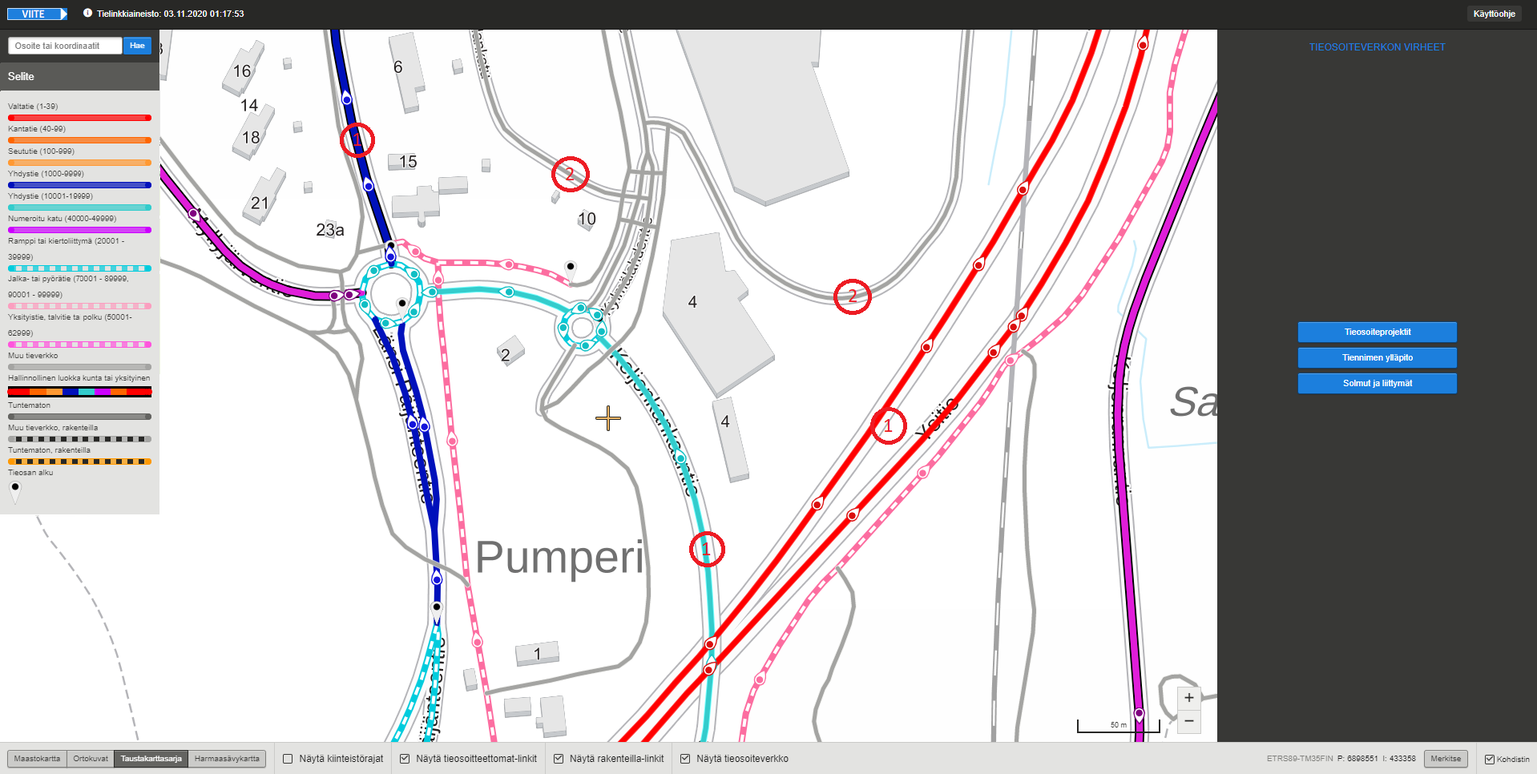
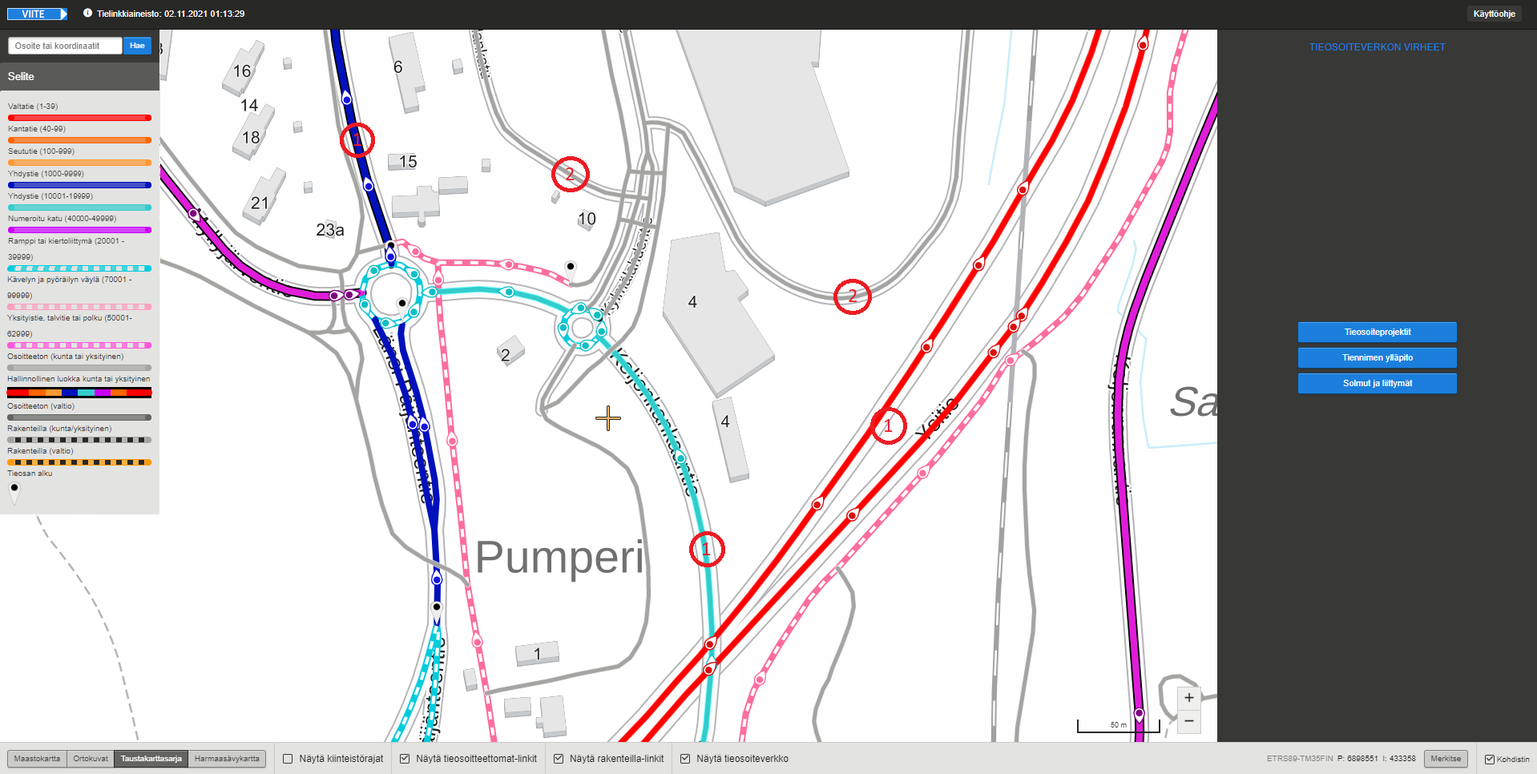
VIITE-2621 User manual update, chapters (0)-5 (#1160)
* VIITE-2621 User manual update, chapters (0)-5

Changed region(s): [[0.0, 0.3416, 0.0923, 0.6211], [0.123, 0.0, 0.1538, 0.0311]]

diff --git a/viite-UI/manual/index.md b/viite-UI/manual/index.md
@@ -3,28 +3,29 @@ Viite-sovelluksen käyttöohje
 Viite
 -----------------------
 
-Viite on Väylän tieosoitejärjestelmän ylläpitosovellus. Viitteellä hallitaan tieosoitejärjestelmän muutoksia ja se tarjoaa ajantasaisen kuvauksen tiestöstä Digiroadin (VVH:n) ajantasaisella linkkigeometrialla.
+Viite on Väylän tieosoitejärjestelmän ylläpitosovellus. Viitteellä hallitaan tieosoitejärjestelmän muutoksia ja se tarjoaa ajantasaisen kuvauksen tiestöstä <!--Digiroadin (VVH:n) ajantasaisella--> VVH:n jäädytetyllä linkkigeometrialla.
 
-Linkistä https://testiextranet.vayla.fi/extranet/web/fi/viite?kategoria=7457637 (testi) pääsee Väylän extranetin Viite-sivulle (tällä hetkellä testiextranet käytössä, varsinainen extranet-osoite päivitetään myöhemmin), jossa kerrotaan Viitteen yleiskuvaus ja annetaan tiedotteita käyttäjille. Sivulla ylläpidetään myös dokumentaatiota Viitteestä. 
+Linkin https://extranet.vayla.fi/group/extranet/etusivu alta Väylän extranetista löytyy Viite, Viite-sovelluksen yleiskuvaus, linkki tähän ohjeeseen ja tieto järjestelmäpäälliköstä. 
 
-__Huom! Suosittelemme käyttämään selaimena Firefoxia tai Chromea.__
+__Huom! Suosittelemme käyttämään selaimena Chromea tai Firefoxia.__
 
 __Huom! Käyttöohjeen kuvia voi klikata isommaksi, jolloin tekstit erottuvat paremmin.__
 
-# 1. Miten päästä alkuun
+1 Miten päästä alkuun
 -----------------------
 
 Viite-sovelluksen käyttöä varten tarvitaan Väylän tunnukset (A-, U-, LX-, K- tai L-alkuinen). Mikäli sinulla ei ole Väylän tunnuksia, pyydä ne yhteyshenkilöltäsi Väylästä.
 
-Kaikilla Väylän tunnuksilla on pääsy Viite-sovellukseen katselukäyttäjänä.
+Kaikilla Väylän tunnuksilla on pääsy Viite-sovellukseen katselukäyttäjänä.   
+Tietojen muokkausoikeuksista päättää Viitteen järjestelmäpäällikkö.
 
-Viite-sovellukseen kirjaudutaan osoitteessa: <a href="https://extranet.vayla.fi/viite/" target="_blank">https://extranet.vayla.fi/viite/</a>.
+Viite-sovellukseen kirjaudutaan osoitteessa: <a href="https://viite.vaylapilvi.fi" target="_blank"> https://viite.vaylapilvi.fi </a>.
 
-![Kirjautuminen Viite-sovellukseen.](k1.jpg)
+![Kirjautuminen Viite-sovellukseen Väylän tunnuksella.](k1.jpg)
 
-_Kuva 1.1: Kirjautuminen Viite-sovellukseen._
+_Kuva 1.1: Kirjautuminen Viite-sovellukseen Väylän tunnuksella._
 
-Kirjautumisen jälkeen avautuu karttakäyttöliittymässä katselutila.
+Kirjautumisen jälkeen avautuu Viitteen karttakäyttöliittymä katselutilassa. Muokkausoikeudellisen käyttäjän karttakäyttöliittymän zoomitaso ja kartan keskityskohta voivat olla erilaiset kuin katselukäyttäjän näkymässä.
 
 ![Näkymä kirjautumisen jälkeen.](k2.jpg)
 
@@ -33,9 +34,9 @@ _Kuva 1.2: Karttanäkymä kirjautumisen jälkeen._
 Oikeudet on rajattu käyttäjän roolin mukaan:
 
 - Ilman erikseen annettuja oikeuksia Väylän tunnuksilla pääsee katselemaan kaikkia tieosoitteita
-- Tieosoiteprojektit, Tiennimen ylläpito sekä Solmut ja liittymät -painikkeet näkyvät vain käyttäjille, joilla on oikeudet muokata tieosoitteita
+- <!--Tieosoiteprojektit, Tiennimen ylläpito sekä Solmut ja liittymät -painikkeet näkyvät vain käyttäjille,--> Tieosoitetietojen muutokset onnistuvat vain muokkausoikeuksilla.
 
-Jos kirjautumisen jälkeen ei avaudu karttakäyttöliittymän katselutilaa, ei kyseisellä tunnuksella ole pääsyä Väylän extranettiin. Tällöin tulee ottaa yhteyttä Väylässä tai ELYssä omaan yhteyshenkilöön.
+Jos kirjautumisen jälkeen karttakäyttöliittymän katselutila ei avaudu, ei kyseisellä tunnuksella ole pääsyä Väylän extranetiin. Tällöin tulee ottaa yhteyttä Väylässä tai ELYssä omaan yhteyshenkilöön.
 
 1.1 Mistä saada opastusta
 --------------------------
@@ -47,18 +48,20 @@ Viite-sovelluksen käytössä avustaa sovellustoimittaja, <viite.kehitys@vayla.f
 Sovelluksen toimiessa virheellisesti (esim. kaikki aineistot eivät lataudu oikein), menettele seuraavasti:
 
 - Lataa sivu uudelleen näppäimistön F5-painikkeella
-- Tarkista, että selaimestasi on käytössä ajan tasalla oleva versio ja selaimesi on Mozilla Firefox tai Chrome
-- Jos edellä olevat eivät korjaa ongelmaa, ota yhteyttä <viite.kehitys@vayla.fi>
+- Tarkista, että selaimestasi on käytössä ajan tasalla oleva versio, ja selaimesi on Chrome tai Mozilla Firefox 
+- Jos edellä olevat eivät korjaa ongelmaa, ota yhteyttä <viite.kehitys@vayla.fi>.
 
-Tämä ohje käsittelee pääasiassa vain Viite-sovelluksen käyttöä, ei niinkään tieosoitejärjestelmää. Tarkemmat tiedot tieosoitejärjestelmästä löydät täältä: https://vayla.fi/documents/20473/143621/tieosoitejärjestelmä.pdf.
+Tämä ohje käsittelee pääasiassa vain Viite-sovelluksen käyttöä, ei niinkään tieosoitejärjestelmää.
+Tarkemmat tiedot tieosoitejärjestelmästä löydät täältä: https://vayla.fi/documents/25230764/35411009/tieosoitejärjestelmä.pdf
 
-# 2. Perustietoja Viite-sovelluksesta
+2 Perustietoja Viite-sovelluksesta
 --------------------------
 
 2.1 Tiedon rakentuminen Viite-sovelluksessa
 --------------------------
 
-Viite-sovelluksessa tieosoiteverkko piirretään VVH:n tarjoaman Maanmittauslaitoksen keskilinja-aineiston päälle. Maanmittauslaitoksen keskilinja-aineisto muodostuu tielinkeistä. Tielinkki on tien, kadun, kevyen liikenteen väylän tai lauttayhteyden keskilinjageometrian pienin yksikkö. Tieosoiteverkko piirtyy geometrian päälle tieosoitesegmentteinä _lineaarisen referoinnin_ avulla. 
+Viite-sovelluksessa tieosoiteverkko piirretään VVH:n tarjoaman Maanmittauslaitoksen keskilinja-aineiston päälle. 
+Viite käyttää keskilinja-aineistosta ns. jäädytettyä versiota, joka päivitetään noin puolivuosittain. Maanmittauslaitoksen keskilinja-aineisto muodostuu tielinkeistä. Tielinkki on tien, kadun, kevyen liikenteen väylän tai lauttayhteyden keskilinjageometrian pienin yksikkö. Tieosoiteverkko piirtyy geometrian päälle tieosoitesegmentteinä _lineaarisen referoinnin_ avulla. 
 
 Tielinkki on Viite-sovelluksen lineaarinen viitekehys, jonka geometriaan sidotaan tieosoitesegmentit. Kukin tieosoitesegmentti tietää, mille tielinkille se kuuluu (tielinkin ID), sekä kohdan, josta se alkaa ja loppuu kyseisellä tielinkillä. Tieosoitesegmentit ovat siten tielinkin mittaisia tai niitä lyhyempiä tieosoitteen osuuksia. Käyttöliittymässä kuitenkin pienin valittavissa oleva osuus on tielinkin mittainen (ks. luvut 5.1 ja 7.1).
 
@@ -68,11 +71,14 @@ Kullakin tieosoitesegmentillä on lisäksi tiettyjä sille annettuja ominaisuust
 
 _Kuva 2.1: Tieosoitesegmenttejä (1) ja muita tielinkkejä (2) Viitteen karttaikkunassa._
 
-Tieosoitesegmentit piirretään Viite-sovelluksessa kartalle erilaisin värein (ks. luku 5). Muut tielinkit, jotka eivät kuulu tieosoiteverkkoon, piirretään kartalle harmaalla. Näitä ovat esimerkiksi tieosoitteettomat kuntien omistamat tiet, ajopolut tai ajotiet.
+Tieosoitesegmentit (eli tieosoitteistetut tielinkit, 1) piirretään Viite-sovelluksessa kartalle erilaisin värein (ks. luku 5). 
+Muut, tieosoiteverkkoon kuulumattomat tielinkit (2), piirretään kartalle harmaalla värillä tai mustaraitaisena katkoviivana. 
+Harmaalla piirretään esimerkiksi (tieosoitteettomat) kuntien omistamat tiet, ajopolut tai ajotiet. 
+Mustaraitaisilla katkoviivoilla piirretään rakenteilla olevat, mutta toistaiseksi tieosoitteistamattomat tiet, jotka ovat tulossa tieosoitteistettaviksi valmistumisensa aikoihin.
 
 Palautteet geometrian/tielinkkien virheistä voi laittaa Maanmittauslaitokselle, <maasto@maanmittauslaitos.fi>. Mukaan liitetään selvitys virheestä ja sen sijainnista (esim. kuvakaappaus).
 
-# 3. Automatiikka Viite-sovelluksessa
+3 Automatiikka Viite-sovelluksessa
 --------------------------
 Viite-sovelluksessa on muutamia automatiikan tekemiä yleistyksiä tai korjauksia. Automatiikka ei muuta mitään sellaisia tietoja, jotka muuttaisivat varsinaisesti tieosoitteita. Automatiikan tekemät muutokset liittyvät siihen, että tieosoiteverkkoa ylläpidetään keskilinjageometrian päällä, ja tuon keskilinjageometrian ylläpidosta vastaa Maanmittauslaitos. Tietyt automaattiset toimenpiteet helpottavat tieosoiteverkon ylläpitäjää varsinaisessa tieosoiteverkon hallinnassa.
 
@@ -81,13 +87,14 @@ __Huom! Automatiikka ei koskaan muuta tieosan mitattua pituutta. Arvot tieosien 
 3.1 Tieosoitesegmenttien yhdistely tielinkin mittaisiksi osuuksiksi
 --------------------------
 
-Kun käyttäjä valitsee kartalla kohteita kaksoisklikkaamalla (ks. luku 5.1), on pienin valittava yksikkö tielinkin mittainen osuus tieosoiteverkosta, koska tielinkki on pienin mahdollinen yksikkö Maanmittauslaitoksen ylläpitämällä linkkiverkolla.
+Käyttäjän valitessa kartalla kohteita kaksoisklikkaamalla (ks. luku 5.1), on pienin valittava yksikkö tielinkin mittainen osuus tieosoiteverkosta, koska tielinkki on pienin mahdollinen yksikkö Maanmittauslaitoksen ylläpitämällä linkkiverkolla.
 
 Tätä varten järjestelmä tekee automaattista yhdistelyä:
 
 - Ne kohteet, joiden tielinkin ID, tie, tieosa, ajorata ja alkupäivämäärä ovat samoja (yhtenevä tieosoitehistoria), on yhdistetty tietokannassa yhdeksi tielinkin mittaiseksi tieosoitesegmentiksi
 - Ne kohteet, joiden tielinkin ID, tie, tieosa, ajorata ovat samoja, mutta alkupäivämäärä ei ole sama (erilainen tieosoitehistoria), ovat tietokannassa edelleen erillisiä kohteita, mutta käyttöliittymässä ne ovat valittavissa vain tielinkin mittaisena osuutena. Tällä varmistetaan, että käyttöliittymä toimii käyttäjän kannalta loogisesti.  Tielinkin mittainen osuus on aina valittavissa, mutta tieosoitehistoria säilytetään tietokantatasolla.
 
+<!-- Kappale 3.2 kommentoitu pois; Viitteessä käytössä nyt puolivuosittain jäädytettävä rajapinta, ei jatkuvasti päivittyvää geometriaa.
 3.2 Tieosoitesegmenttien automaattinen korjaus jatkuvasti päivittyvällä linkkigeometrialla
 --------------------------
 
@@ -97,8 +104,9 @@ Automatiikka tekee korjaukset, kun
 
 1. __Tielinkki pitenee tai lyhenee alle metrin:__ Viite-sovellus lyhentää/pidentää tieosoitesegmenttiä automaattisesti muutoksen verran.
 2. __Maanmittauslaitos yhdistelee tielinkkejä, esimerkiksi poistamalla tonttiliittymiä maanteiden varsilta:__ Tieosoitesegmentit siirretään uudelle geometrialle automaattisesti Väyläverkon hallinnan (VVH) tarjoaman tielinkkien muutosrajapinnan avulla.
+-->
 
-# 4. Karttanäkymän toiminnot
+4 Karttanäkymän toiminnot
 --------------------------
 
 ![Karttanäkymän muokkaus](k3.jpg)
@@ -107,46 +115,48 @@ _Kuva 4.1: Karttanäkymä._
 
 #### Kartan liikuttaminen
 
-Karttaa liikutetaan raahaamalla pitämällä hiiren vasenta painiketta pohjassa ja liikuttamalla samalla hiirtä.
+Karttaa liikutetaan ns. raahaamalla, eli pitämällä hiiren vasenta painiketta pohjassa ja liikuttamalla samalla hiirtä.
 
 #### Hakukenttä
 
-Käyttöliittymässä on hakukenttä (1), jossa voi hakea koordinaateilla, tieosoitteella, katuosoitteella, MTKID:llä ja Linkin ID:llä. Haku suoritetaan kirjoittamalla hakuehto hakukenttään ja klikkaamalla Hae. Hakutulos tulee listaan hakukentän alle. Hakutuloslistassa ylimpänä on maantieteellisesti kartan nykyistä keskipistettä lähimpänä oleva kohde. Mikäli hakutuloksia on vain yksi, keskittyy kartta automaattisesti haettuun kohteeseen. Jos hakutuloksia on useampi kuin yksi, täytyy listalta valita tulos, johon kartta keskittyy. Tyhjennä tulokset -painike tyhjentää hakutuloslistan.
+Käyttöliittymässä on kartan keskitystä varten hakukenttä (1), jossa voi hakea kohteita koordinaateilla, tieosoitteella, katuosoitteella, MTKID:llä ja Linkin ID:llä. Haku suoritetaan kirjoittamalla hakuehto hakukenttään ja klikkaamalla Hae. Hakutulos tulee listaan hakukentän alle. Hakutuloslistassa ylimpänä on maantieteellisesti kartan nykyistä keskipistettä lähimpänä oleva kohde, tai katuosoitehaun tapauksessa tulokset ovat aakkosjärjestyksessä. Mikäli hakutuloksia on vain yksi, keskittyy kartta automaattisesti haettuun kohteeseen. Jos hakutuloksia on useampi kuin yksi, täytyy listalta valita tulos, johon kartan halutaan keskittyvän. Tyhjennä tulokset -painike tyhjentää hakutuloslistan.
 
-Koordinaateilla haku: Koordinaatit syötetään muodossa "pohjoinen (7 merkkiä), itä (6 merkkiä)". Koordinaatit tulee olla ETRS89-TM35FIN -koordinaattijärjestelmässä, esim. 6975061, 535628.
+Koordinaateilla haku: Koordinaatit syötetään muodossa "pohjoinen (7 merkkiä), itä (6 merkkiä)". Koordinaattien tulee olla ETRS89-TM35FIN -koordinaattijärjestelmässä (esim. 6975061, 535628).
 
 Tieosoitteella haku: Tieosoitteesta hakukenttään voi syöttää joko tienumeron (esim. 2), tienumero + tieosanumeroyhdistelmän (esim. 2 1) tai tienumero + tieosanumero + etäisyys –yhdistelmän (esim. 2 1 350). 
 
-Katuosoitteella haku: Katuosoitteesta hakukenttään voi syöttää koko osoitteen tai sen osan, esim. "Mannerheimintie”, ”Mannerheimintie, Helsinki” tai "Mannerheimintie 10, Helsinki".
+Katuosoitteella haku: Katuosoitteesta hakukenttään voi syöttää koko osoitteen tai sen osan (esim. "Mannerheimintie", "Mannerheimintie, Helsinki", "Mannerheimintie 10, Helsinki", tai myös "Mannerheimintie 10").
 
 Linkin ID:llä haku toimii myös selaimen osoitekentän kautta. Ks. tarkemmin 5.3.
 
 #### Taustakartat
 
-Taustakartaksi (2) voi valita vasemman alakulman painikkeista maastokartan, ortokuvat, taustakarttasarjan tai harmaasävykartan. Käytössä oleva harmaasävykartta ei tällä hetkellä ole kovin käyttökelpoinen.
+Taustakartaksi voi valita vasemman alakulman painikkeista (2) maastokartan, ortokuvat, taustakarttasarjan tai harmaasävykartan. Käytössä oleva harmaasävykartta ei tällä hetkellä ole kovin käyttökelpoinen.
 
 #### Näytettävät tiedot
 
-Käyttäjä voi halutessaan valita, näytetäänkö kartalla kiinteistörajat, tieosoitteettomat linkit, rakenteilla-linkit tai tieosoiteverkko symboleineen (3). Valinnat saa päälle ja päältä pois valintaruutuja klikkaamalla. Muut kuin Näytä kiinteistörajat -valinnat ovat automaattisesti päällä. Tieosoiteverkon symboleita ovat etäisyyslukemasymbolit ja suuntanuolet.
+Käyttäjä voi halutessaan valita, näytetäänkö kartalla kiinteistörajat, tieosoitteettomat linkit, rakenteilla-linkit tai tieosoiteverkko symboleineen (3). Valinnat saa päälle ja päältä pois valintaruutuja klikkaamalla toisistaan riippumatta. Muut kuin Näytä kiinteistörajat -valinnat ovat automaattisesti päällä. 
+Tieosoiteverkon symboleita ovat suuntanuolet ja tieosien päätepisteet (tai yleisemmin kalibrointipisteet).
 
 #### Mittakaavataso ja mittakaava
 
-Käytössä oleva mittakaava näkyy kartan oikeassa alakulmassa (4).Kartan mittakaavatasoa muutetaan joko hiiren rullalla, kaksoisklikkaamalla, Shift+piirto -toiminnolla (alue) tai mittakaavapainikkeista (5). Mittakaavapainikkeita käyttämällä kartan keskitys säilyy. Hiiren rullalla, kaksoisklikkaamalla tai Shift+piirto -toimintoa käyttäen (alue) kartan keskitys siirtyy kohdistimen keskikohtaan.
+Käytössä oleva mittakaava näkyy kartan oikeassa alakulmassa (4). Kartan mittakaavatasoa muutetaan joko hiiren rullalla, kaksoisklikkaamalla (zoom in), Shift+piirto -toiminnolla (alue) tai mittakaavapainikkeista (5). Mittakaavapainikkeita käyttämällä kartan keskitys säilyy. Hiiren rullalla tai kaksoisklikkaamalla kartan keskitys siirtyy hiiren kohdistimen keskikohtaan. Shift+piirto -toimintoa (alue) käyttäen kartta keskittyy valitun alueen keskipisteesen.
 
 #### Kohdistin
 
-Kohdistin (6) kertoo kartan keskipisteen. Kohdistimen koordinaatit näkyvät karttaikkunan oikeassa alakulmassa (7). Kun karttaa liikuttaa, keskipiste muuttuu ja koordinaatit päivittyvät. Oikean alakulman valinnan (9) avulla kohdistimen saa myös halutessaan piilotettua kartalta.
+Kohdistin (6) ilmaisee kartan keskipisteen. Kohdistimen koordinaatit näkyvät karttaikkunan oikeassa alakulmassa (7). Kun karttaa liikuttaa, keskipiste muuttuu ja koordinaatit päivittyvät. Oikean alakulman valinnan (9) avulla kohdistimen saa myös halutessaan piilotettua kartalta.
 
 #### Merkitse piste kartalla
 
 Merkitse-painike (8) merkitsee sinisen pisteen kartan keskipisteeseen. Merkki poistuu vain, kun merkitään uusi piste kartalta.
 
-# 5. Tieosoiteverkon katselu
+5 Tieosoiteverkon katselu
 --------------------------
 
-Geometrialtaan yleistetty tieosoiteverkko tulee näkyviin, kun zoomaa tasolle, jonka mittakaavajanassa on lukema 5 km. Tästä tasosta ja sitä lähempää piirretään kartalle valtatiet, kantatiet, seututiet, yhdystiet ja numeroidut kadut. Yleistämätön tieverkko piirtyy mittakaavajanan lukemalla 2 km. 100 metriä (100 metrin mittakaavajanoja on kaksi kappaletta) suuremmilla mittakaavatasoilla tulevat näkyviin kaikki tieverkon kohteet.
+Geometrialtaan yleistetty tieosoiteverkko (linkit piirretään pelkkien päätepisteiden perusteella) tulee näkyviin, kun zoomaa tasolle, jonka mittakaavajanassa on lukema 5 km. Tästä tasosta ja sitä lähempää piirretään kartalle valtatiet, kantatiet, seututiet, yhdystiet ja numeroidut kadut. Yleistämätön tieverkko piirtyy mittakaavajanan lukemalla 2 km. 100 metriä (100 metrin mittakaavajanoja on kaksi kappaletta) suuremmilla mittakaavatasoilla tulevat näkyviin kaikki tieverkon kohteet. Tieverkon latautuminen karttanäytölle voi kestää jonkin aikaa. 
 
-Tieosoiteverkko on värikoodattu tienumeroiden mukaan. Vasemman yläkulman selitteessä on kerrottu kunkin värikoodin tienumerot. Lisäksi kartalle piirtyvät etäisyyslukemasymbolit, kohdat, joissa vaihtuu tieosa tai ajoratakoodi. Tieverkon kasvusuunta näkyy kartalla pisaran mallisena nuolena.
+Tieosoiteverkko on värikoodattu tienumeroiden mukaan. Vasemman yläkulman selitteessä on kerrottu kutakin värikoodia vastaavat tienumerot. 
+Lisäksi kartalle merkitään tieosien alkupisteet. Tieverkon suunta näkyy kartalla pisaran mallisena nuolena. Nuolen kärki osoittaa tieosoitteen kasvusuuntaan.
 
 Kartalla näkyvä tieosoiteverkko on uusimman tieosoitteen mukainen verkko, jossa näkyvät tieosoitteiden viimeisimmät muutokset. Näiden muutosten alkupäivämäärä voi olla tulevaisuudessa, joten kartalla ei näy ns. tämän päivän tilanne.
 
@@ -158,25 +168,28 @@ _Kuva 5.1: Tieosoiteverkon piirtyminen kartalle, kun mittakaavajanassa on 2 km._
 
 _Kuva 5.2: Tieosoiteverkon piirtyminen kartalle, kun mittakaavajanassa on 100 m._
 
-Tieosoitteelliset kadut ja yksityistiet erottuvat kartalla muista tieosoitesegmenteistä siten, että niiden ympärillä on musta reunaviiva.
+Tieosoitteelliset kadut ja yksityistiet (hallinnollinen luokka kunta tai yksityinen) erottuvat kartalla muista tieosoitesegmenteistä siten, että niiden ympärillä on musta reunaviiva.
 
 ![Tieosoitteellinen katu](k16.jpg)
 
 _Kuva 5.3: Tieosoitteellinen katu, merkattuna mustalla reunaviivalla tienumeron värityksen lisäksi._
 
-Kun hiiren vie tieosoiteverkon päälle, tulee kartalle näkyviin infolaatikko, joka kertoo kyseisen tieosoitesegmentin tienumeron, tieosanumeron, ajoratakoodin sekä alku- ja loppuetäisyyden.
+Kun hiiren kohdistimen vie tieosoitteistetun tieosuuden päälle, tulee kartalle näkyviin infolaatikko, joka kertoo kyseisen tieosoitesegmentin tienumeron, tieosanumeron, ajoratakoodin, alku- ja loppuetäisyyden sekä hallinnollisen luokan.
 
 ![Tieosoitteen hoverointi](k35.jpg)
 
-_Kuva 5.4: Infolaatikko, kun hiiri on viety tieosoitesegmentin päälle._
+_Kuva 5.4: Infolaatikko, kun hiiren kohdistin on viety tieosoitesegmentin päälle._
 
 5.1 Kohteiden valinta
 --------------------------
-Kohteita voi valita kartalta klikkaamalla. Kertaklikkauksella sovellus valitsee kartalla näkyvästä tieosasta osuuden, jolla on sama tienumero, tieosanumero ja ajoratakoodi. Valittu tieosa korostuu kartalla (1), ja sen tiedot tulevat näkyviin karttaikkunan oikean reunan ominaisuustietonäkymään (2).
 
-![Tieosuuden valinta](k6.jpg)
+Kohteita voi valita kartalta klikkaamalla, tuplaklikkaamalla ja ctrl+klikkaamalla. 
 
-_Kuva 5.5: Tieosuuden valinta._
+Kertaklikkauksella sovellus valitsee klikatun tieosan, eli tielinkit joilla on sama tienumero ja tieosanumero. Valittu tieosa korostuu kartalla (1), ja sen tiedot tulevat näkyviin karttaikkunan oikean reunan ominaisuustietonäkymään (2).
+
+![Tieosan valinta](k6.jpg)
+
+_Kuva 5.5: Kokonaisen tieosan valinta._
 
 Kaksoisklikkaus valitsee yhden tielinkin mittaisen osuuden tieosoitteesta. Valittu osuus korostuu kartalla (3), ja sen tiedot tulevat näkyviin karttaikkunan oikean reunan ominaisuustietonäkymään (4).
 
@@ -184,38 +197,51 @@ Kaksoisklikkaus valitsee yhden tielinkin mittaisen osuuden tieosoitteesta. Valit
 
 _Kuva 5.6: Tielinkin mittaisen osuuden valinta._
 
-5.2 Tieosoitteen ominaisuustiedot
+Ctrl+klik eli monivalinta. Ctrl-nappula pohjassa linkkejä klikkailemalla voit valita vapaasti kaikenlaisia tielinkkejä samaan valintaan.
+Voit esim. poimia tieosoitteistettuja ja tieosoitteistamattomia linkkejä samaan valintaan approksimoidaksesi tulevia tiepituuksia. 
+Monivalituille linkeille ominaisuustiedoissa näytetään vain karkeamman tason tiedot.
+
+![Ctrl+klik; monivalinta, ääriesimerkki](k71.jpg)
+
+_Kuva 5.7: Tielinkkien monivalinta._
+
+5.2 Tieosoitteiden ominaisuustiedot
 --------------------------
 
-Tieosoitteilla on seuraavat ominaisuustiedot:
+Valituista tielinkeistä näytetään seuraavat ominaisuustiedot:
 
-|Ominaisuustieto|Kuvaus|Sovellus muodostaa|
-|---------------|------|----------------|
-|Muokattu viimeksi*|Muokkaajan käyttäjätunnus ja tiedon muokkaushetki.|X|
-|Linkkien lukumäärä|Niiden tielinkkien lukumäärä, joihin valinta  kohdistuu.|X|
-|Geometrian lähde|MML_jäädytetty, MML, Täydentävä tai Suravage.|X|
-|Tienumero|Tieosoiteverkon mukainen tienumero. Lähtöaineistona Tierekisterin tieosoitteet 1.1.2019.||
-|Tieosanumero|Tieosoiteverkon mukainen tieosanumero. Lähtöaineistona Tierekisterin tieosoitteet 1.1.2019.||
-|Ajorata|Tieosoiteverkon mukainen ajoratakoodi. Lähtöaineistona Tierekisterin tieosoitteet 1.1.2019.||
-|Alkuetäisyys**|Tieosoiteverkon etäisyyslukemien avulla laskettu alkuetäisyys. Etäisyyslukeman kohdalla alkuetäisyyden lähtöaineistona on Tierekisterin tieosoitteet 1.1.2019.|X|
-|Loppuetäisyys**|Tieosoiteverkon etäisyyslukemien avulla laskettu loppuetäisyys. Etäisyyslukeman kohdalla loppuetäisyyden lähtöaineistona on Tierekisterin tieosoitteet 1.1.2019.|X|
-|ELY|Väylän ELY-numero.|X|
-|Hallinnollinen luokka***|Saadaan Maanmittauslaitoksen hallinnollinen luokka -tiedoista. Jos valitulla tieosalla on useita hallinnollisia luokkia, ne kerrotaan ominaisuustietotaulussa pilkulla erotettuna.||
-|Jatkuvuus|Tieosoiteverkon mukainen jatkuvuustieto. Lähtöaineistona Tierekisterin tieosoitteet 1.1.2019.|X|
+|Ominaisuustieto   | Kuvaus|
+|------------------|-------|
+|Muokattu viimeksi*| Muokkaajan käyttäjätunnus ja tiedon muokkaushetki.|
+|Linkkien lukumäärä| Niiden tielinkkien lukumäärä, joihin valinta  kohdistuu.|
+|Geometrian lähde  | MML_jäädytetty, MML, Täydentävä tai Suravage.|
+|Kunta             | Geometrialinkin kuntatieto.|
+|Linkin ID         | Näytetään, jos valittuna on yksittäinen linkki.|
+|Geometrian pituus/Geometrioiden yhteenlaskettu pituus| Valittujen tielinkkien yhteispituus. Lasketaan kaikkien linkkien tiedoista.|
+|Tien nimi         | Viitteessä tielle annettu tien nimi, tai listaus valinnan tiennimistä.|
+|Tienumero         | Tieosoiteverkon mukainen tienumero, tai listaus valinnan tienumeroista. Lähtöaineistona Tierekisterin tieosoitteet (joulukuu 2021).|
+|Tieosanumero      | Tieosoiteverkon mukainen tieosanumero. Lähtöaineistona Tierekisterin tieosoitteet (joulukuu 2021).|
+|Ajorata           | Tieosoiteverkon mukainen ajoratakoodi, tai listaus valinnan ajoratakoodeista. Lähtöaineistona Tierekisterin tieosoitteet (joulukuu 2021).|
+|Alkuetäisyys**    | Tieosoiteverkon etäisyyslukemien avulla laskettu alkuetäisyys. Etäisyyslukeman kohdalla alkuetäisyyden lähtöaineistona on Tierekisterin tieosoitteet (joulukuu 2021).|
+|Loppuetäisyys**   | Tieosoiteverkon etäisyyslukemien avulla laskettu loppuetäisyys. Etäisyyslukeman kohdalla loppuetäisyyden lähtöaineistona on Tierekisterin tieosoitteet (joulukuu 2021).|
+|Yhteenlaskettu pituus   | Valinnan mukaisten tieosoitteistettujen tielinkkien tieosoitevälien yhteispituus.| 
+|ELY                     | Tien hallinnoinnista vastaava ELY, tai listaus valinnan ELYistä.|
+|Hallinnollinen luokka*3| Lähtöaineistona Maanmittauslaitoksen hallinnollinen luokka -tieto. Jos valituilla tielinkeillä on useita hallinnollisia luokkia, ne listataan pilkulla erotettuna.|
+|Jatkuvuus               | Tieosoiteverkon mukainen jatkuvuustieto, tai listaus valinnan jatkuvuuskoodeista. Lähtöaineistona Tierekisterin tieosoitteet (joulukuu 2021).|
 
 *) Muokattu viimeksi -tiedoissa vvh_modified tarkoittaa, että muutos on tullut Maanmittauslaitokselta joko geometriaan tai geometrian ominaisuustietoihin. Muokattu viimeksi -päivät ovat kaikki vähintään 29.10.2015, koska tuolloin on tehty Maanmittauslaitoksen geometrioista alkulataus VVH:n tietokantaan.
 
-**) Tieosoiteverkon etäisyyslukemat (tieosan alku- ja loppupisteet sekä ajoratakoodin vaihtuminen) määrittelevät mitatut alku- ja loppuetäisyydet. Etäisyyslukemien välillä alku- ja loppuetäisyydet lasketaan tieosoitesegmenttikohtaisesti Viite-sovelluksessa.
+**) Tieosoiteverkon kalibrointipisteet (tieosan alku- ja loppupisteet sekä ajoratakoodin vaihtuminen) määrittelevät mitatut alku- ja loppuetäisyydet. Kalibrointipisteiden välillä alku- ja loppuetäisyydet lasketaan tieosoitesegmenttikohtaisesti Viite-sovelluksessa.
 
-***) Viitteessä luovuttiin Tietyypistä ja se korvattiin Hallinnollisella luokalla 3/2021.
+*3) Viitteessä luovuttiin Tietyypistä ja se korvattiin Hallinnollisella luokalla 3/2021.
 Palautteet hallinnollisen luokan virheistä voi toimittaa Maanmittauslaitokselle osoitteeseen maasto@maanmittauslaitos.fi. Mukaan selvitys virheestä ja sen sijainnista (kuvakaappaus tms.).
 
 5.3 Kohdistaminen tieosoitteeseen tielinkin ID:n avulla
 --------------------------
 
-Kun kohdetta klikkaa kartalla, tulee selaimen osoiteriville näkyviin valitun kohteen tielinkin ID. Osoiterivillä olevan URL:n avulla voi myös kohdistaa käyttöliittymässä ko. tielinkkiin. URL:n voi lähettää sähköpostilla toiselle henkilölle, jolloin tämä pääsee käyttöliittymässä samaan paikkaan.
+Kun kohdetta klikkaa tai tuplaklikkaa kartalla, tulee selaimen osoiteriville näkyviin tielinkin ID. Tuplaklikattaessa ID on valitun linkin id, klikattaessa jonkun valitun tieosan linkin ID. Osoiterivillä olevan URL:n avulla voi myös kohdistaa käyttöliittymässä ko. tielinkkiin. URL:n voi lähettää toiselle henkilölle, jolloin tämä pääsee käyttöliittymässä samaan paikkaan.
 
-Esimerkiksi: https://extranet.vayla.fi/viite/#linkProperty/1204420 näkyy kuvassa osoiterivillä (5). 1204420 on tielinkin ID.
+Esimerkiksi: https://viite.vaylapilvi.fi/#linkProperty/1204420 näkyy kuvassa osoiterivillä (5). 1204420 on tielinkin ID.
 
 ![Kohdistaminen tielinkin ID:llä](k8.jpg)
 
